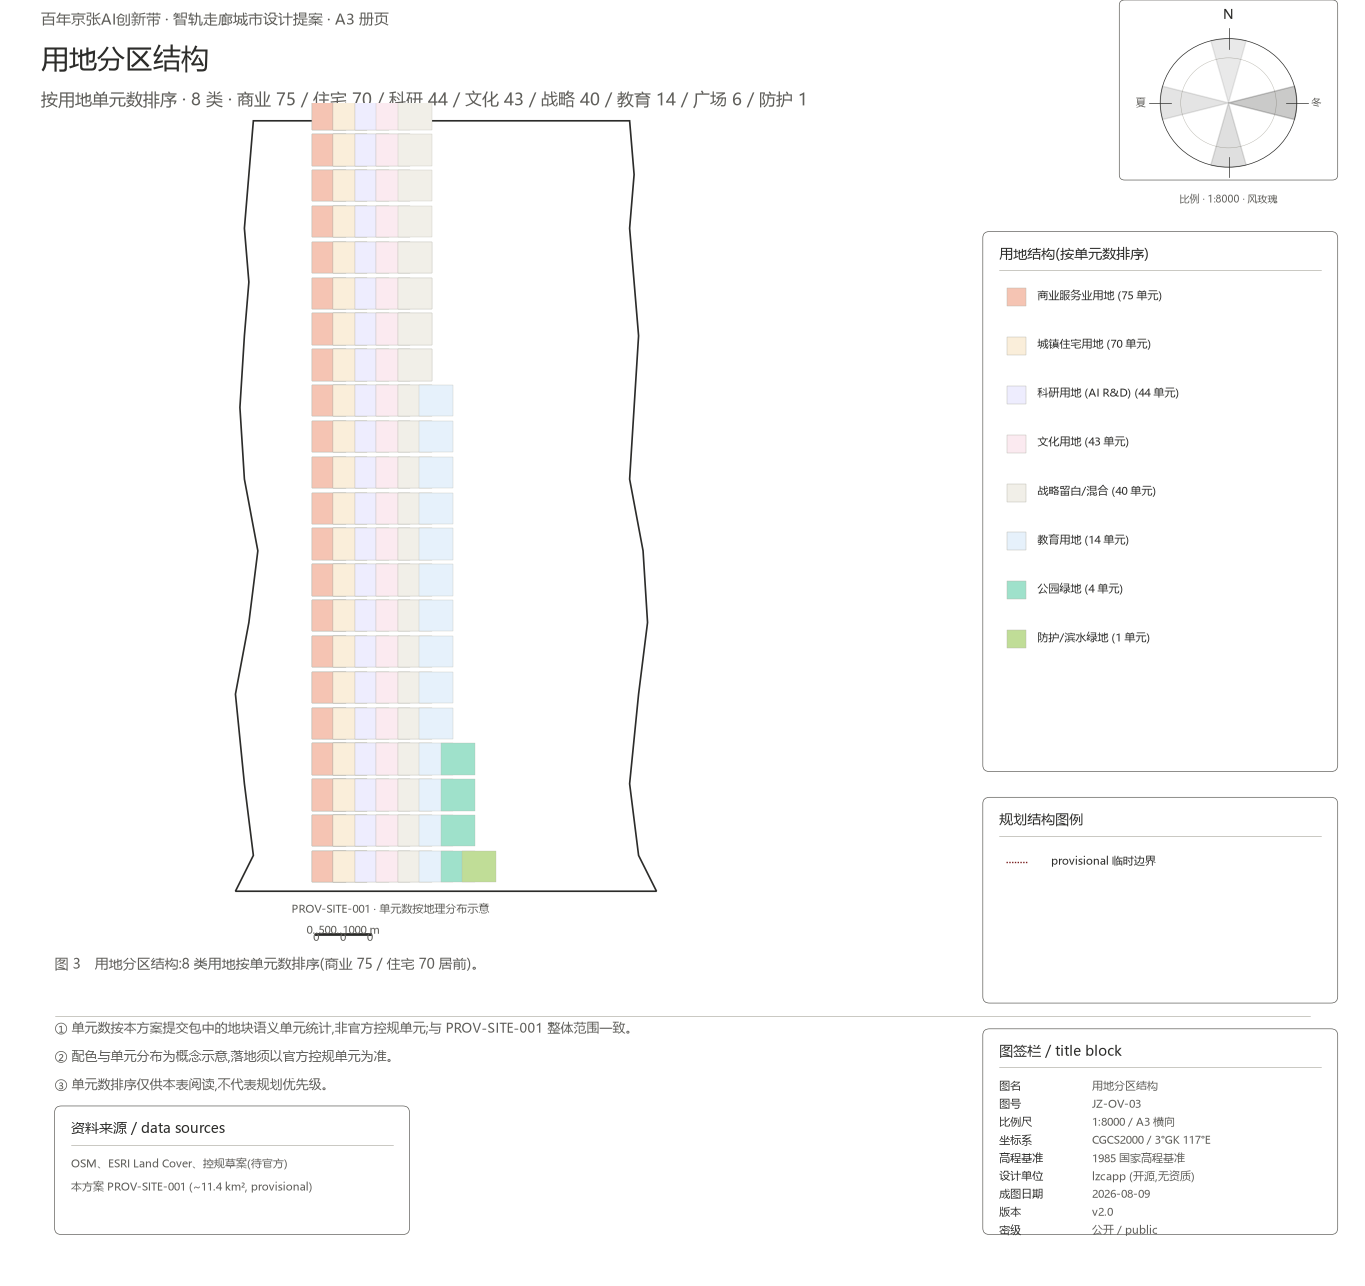
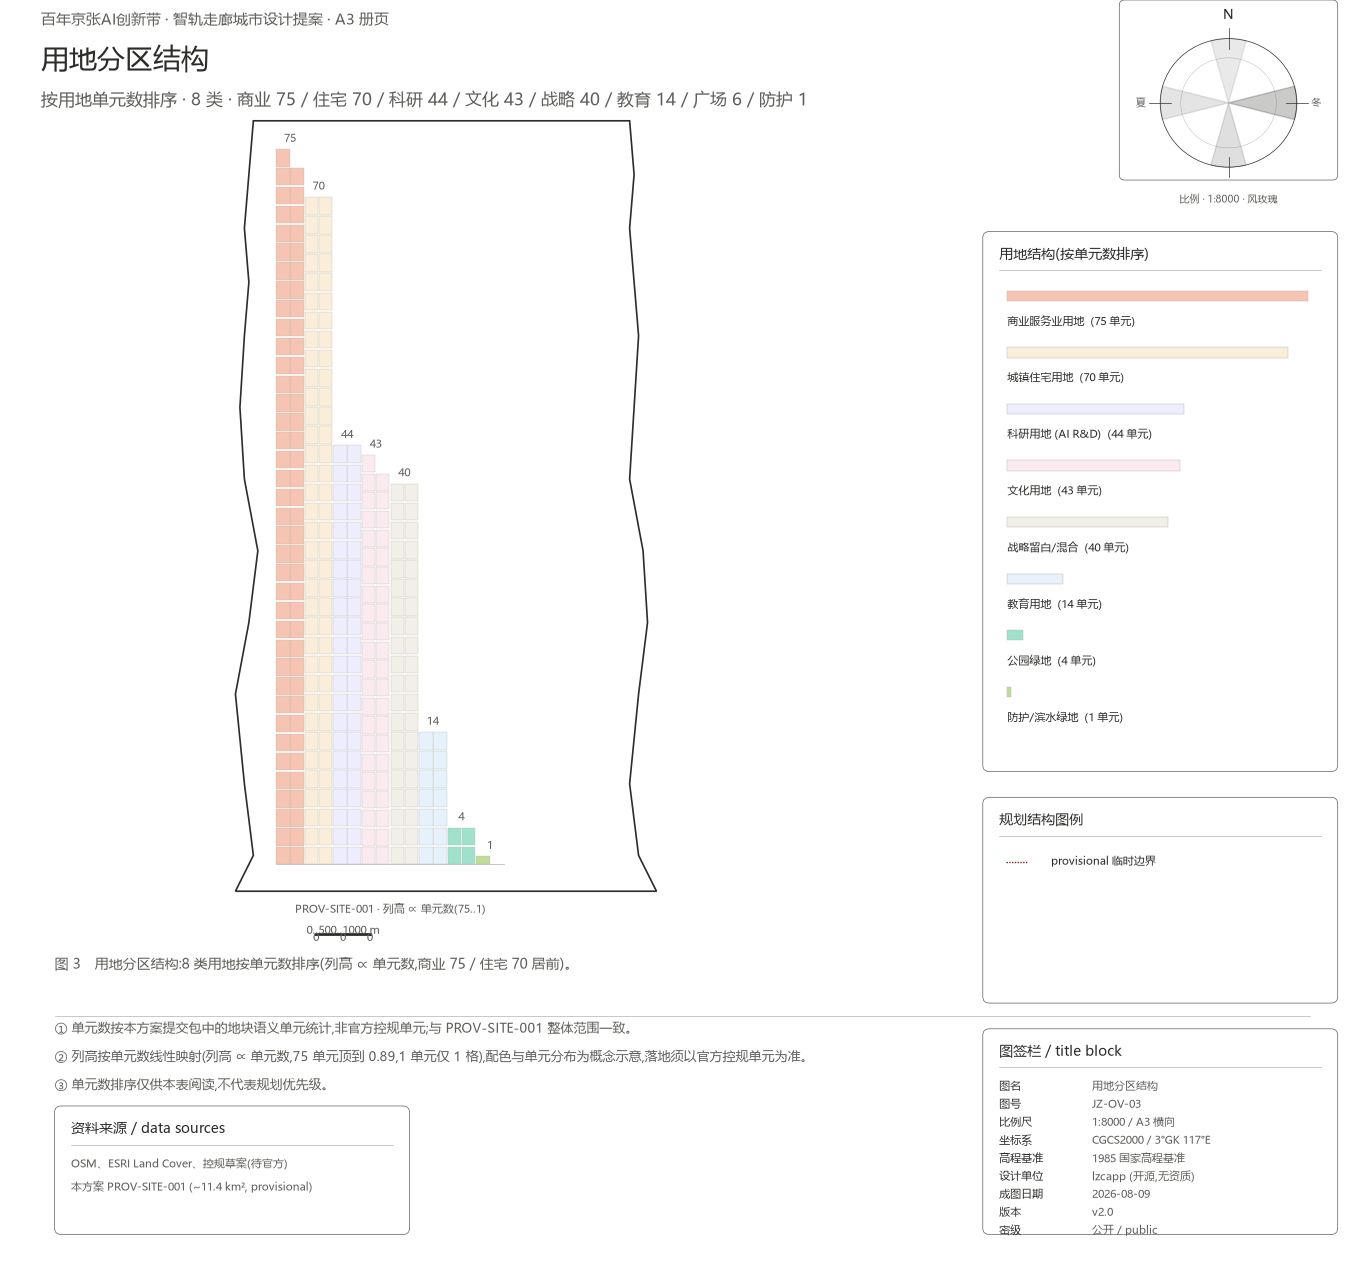
fix(lzcapp/jingzhang-ai-belt): figures v2.2 — 用地分区按比例列高修溢出
问题: land-use-structure.png 的 waffle 用 u%22 折返,所有列高被截成 22 行(商业 75 / 住宅 70 看起来等高);末行上沿 y=0.945 超出 data 范围 0.94,顶到副标题文字。

修复:
1. 8 列改为按比例列高 — 75 单元顶到 y=0.89,1 单元仅 1 格,每列 cell_h = (n/75)*0.80/n_rows,全部落在走廊轮廓 y=0.09..0.89 内带上下 0.03 留白。
2. 柱顶加单元数标签(75/70/44/43/40/14/4/1),柱底加基线。
3. 右侧'用地结构'图例改为双行布局:细色条(宽 ∝ 单元数)+ 全名标签,避免文字被推出盒外。
4. chapter caption 与 caveat ② 更新,说明列高 ∝ 单元数。
5. 副标题和图脚保持原状。

校验: ok:true / errors:[] / stage=formal。仅 land-use-structure.png 变化,其他 4 张图未动。仍按既定规则不建 PR,走 fork 推送。

diff --git a/build_figures_v2.py b/build_figures_v2.py
@@ -455,14 +455,33 @@ def build_fig_land_use_structure(out_path):
         ("park", 4, PAL["park"]),
         ("greenway", 1, PAL["greenway"]),
     ]
-    rng = np.random.default_rng(44)
-    for col_idx, (key, n_units, color) in enumerate(use_pal):
-        col_w = 0.18 / 4
-        for u in range(n_units):
-            yc = 0.07 + (u % 22) * 0.04
-            xc = 0.205 + col_idx * 0.024
-            ax.add_patch(Rectangle((xc, yc), col_w * 0.85, 0.035, fc=color, ec=PAL["fig_block_divider"], lw=0.2, zorder=2))
-    text(ax, 0.293, 0.04, "PROV-SITE-001 · 单元数按地理分布示意", size=8, color=PAL["tier1_text"], ha="center")
+    # 按比例列高 waffle: 列高 ∝ 单元数,全部落在走廊轮廓内(y=0.06..0.92)留上下 0.03 边距
+    y_top = 0.89
+    y_bot = 0.09
+    avail_h = y_top - y_bot  # 0.80
+    max_n = max(n for _, n, _ in use_pal)  # 75
+    x_left, x_right = 0.165, 0.420
+    n_cols = len(use_pal)
+    col_w = (x_right - x_left) / n_cols  # 0.0319
+    cell_pad = 0.0006
+    cells_per_col = 2  # 每列每行 2 格,75 单元=38 行
+    for col_idx, (key, n, color) in enumerate(use_pal):
+        col_h = (n / max_n) * avail_h
+        n_rows = int(np.ceil(n / cells_per_col))
+        cell_h = col_h / n_rows
+        cell_w = (col_w - cell_pad * (cells_per_col + 1)) / cells_per_col
+        x_col = x_left + col_idx * col_w
+        for i in range(n):
+            row_from_bot = (n - 1 - i) // cells_per_col  # 从底向上数
+            col_in_row = (n - 1 - i) % cells_per_col  # 0=左,1=右(从底向上从左到右填)
+            xc = x_col + cell_pad + col_in_row * (cell_w + cell_pad)
+            yc = y_bot + row_from_bot * cell_h
+            ax.add_patch(Rectangle((xc, yc), cell_w, cell_h * 0.92, fc=color, ec=PAL["fig_block_divider"], lw=0.2, zorder=2))
+        # 柱顶单元数标签
+        text(ax, x_col + col_w / 2, y_bot + col_h + 0.010, f"{n}", size=8, color=PAL["tier1_text"], ha="center")
+    # 基线(走廊内 0 单元参考线)
+    ax.plot([x_left, x_right], [y_bot, y_bot], color=PAL["fig_block_divider"], lw=0.5, zorder=1)
+    text(ax, 0.293, 0.04, "PROV-SITE-001 · 列高 ∝ 单元数(75..1)", size=8, color=PAL["tier1_text"], ha="center")
     draw_scale_bar(ax, 0.21, 0.012, length_m=0.06, label="0..500..1000 m")
     draw_wind_rose(fig)
     draw_metadata_block(fig)
@@ -474,19 +493,22 @@ def build_fig_land_use_structure(out_path):
     items_zh = {"commercial":"商业服务业用地","residential":"城镇住宅用地","research":"科研用地 (AI R&D)",
                 "culture":"文化用地","mixed":"战略留白/混合","education":"教育用地",
                 "park":"公园绿地","greenway":"防护/滨水绿地"}
+    # 右侧图例:双行布局 — 细色条(宽 ∝ 单元数)在上,全名标签在下
+    legend_max_w = w - 0.04
     for i, (key, n, color) in enumerate(use_pal):
-        ry = y0 + h - 0.05 - i * 0.038
-        s.add_patch(Rectangle((x0 + 0.018, ry - 0.008), 0.014, 0.014, fc=color, ec=PAL["fig_block_divider"], lw=0.3, clip_on=False))
-        text(s, x0 + 0.04, ry, f"{items_zh[key]} ({n} 单元)", size=8)
+        ry_bar = y0 + h - 0.05 - i * 0.044
+        sw_w = legend_max_w * (n / 75)
+        s.add_patch(Rectangle((x0 + 0.018, ry_bar - 0.004), sw_w, 0.008, fc=color, ec=PAL["fig_block_divider"], lw=0.3, clip_on=False))
+        text(s, x0 + 0.018, ry_bar - 0.020, f"{items_zh[key]}  ({n} 单元)", size=8)
     draw_structure_legend(fig, [
         ("prov", _swatch_prov, "provisional 临时边界"),
     ])
     draw_caveats(fig, [
         "① 单元数按本方案提交包中的地块语义单元统计,非官方控规单元;与 PROV-SITE-001 整体范围一致。",
-        "② 配色与单元分布为概念示意,落地须以官方控规单元为准。",
+        "② 列高按单元数线性映射(列高 ∝ 单元数,75 单元顶到 0.89,1 单元仅 1 格),配色与单元分布为概念示意,落地须以官方控规单元为准。",
         "③ 单元数排序仅供本表阅读,不代表规划优先级。",
     ])
-    draw_chapter_caption(fig, "3", "用地分区结构:8 类用地按单元数排序(商业 75 / 住宅 70 居前)。")
+    draw_chapter_caption(fig, "3", "用地分区结构:8 类用地按单元数排序(列高 ∝ 单元数,商业 75 / 住宅 70 居前)。")
     draw_title_block(fig, "JZ-OV-03", "用地分区结构", "3")
     fig.savefig(out_path, dpi=100, facecolor="white", bbox_inches=None)
     plt.close(fig)
